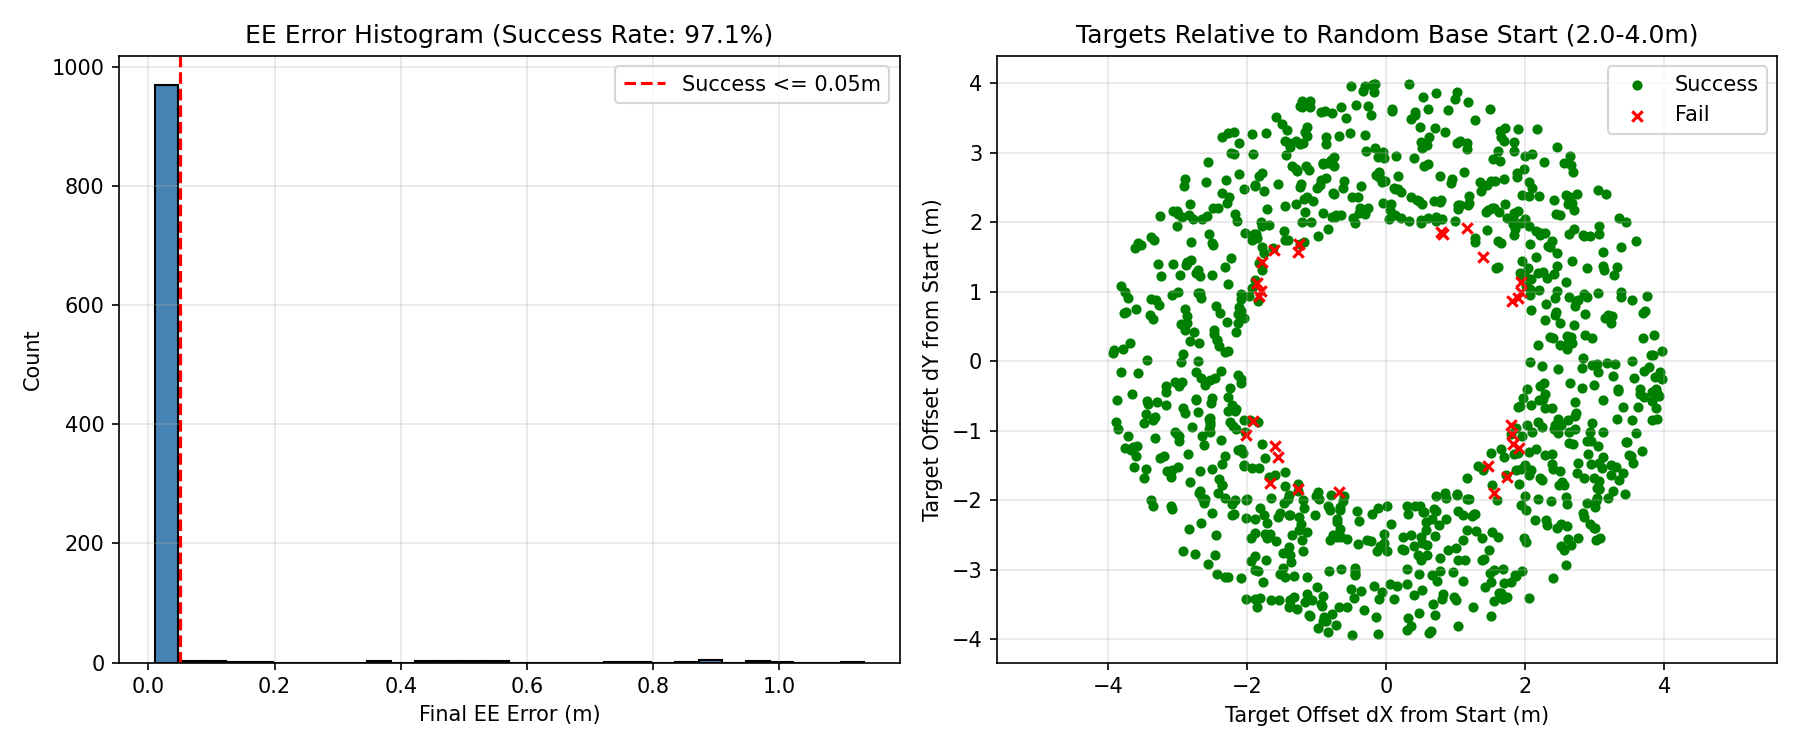
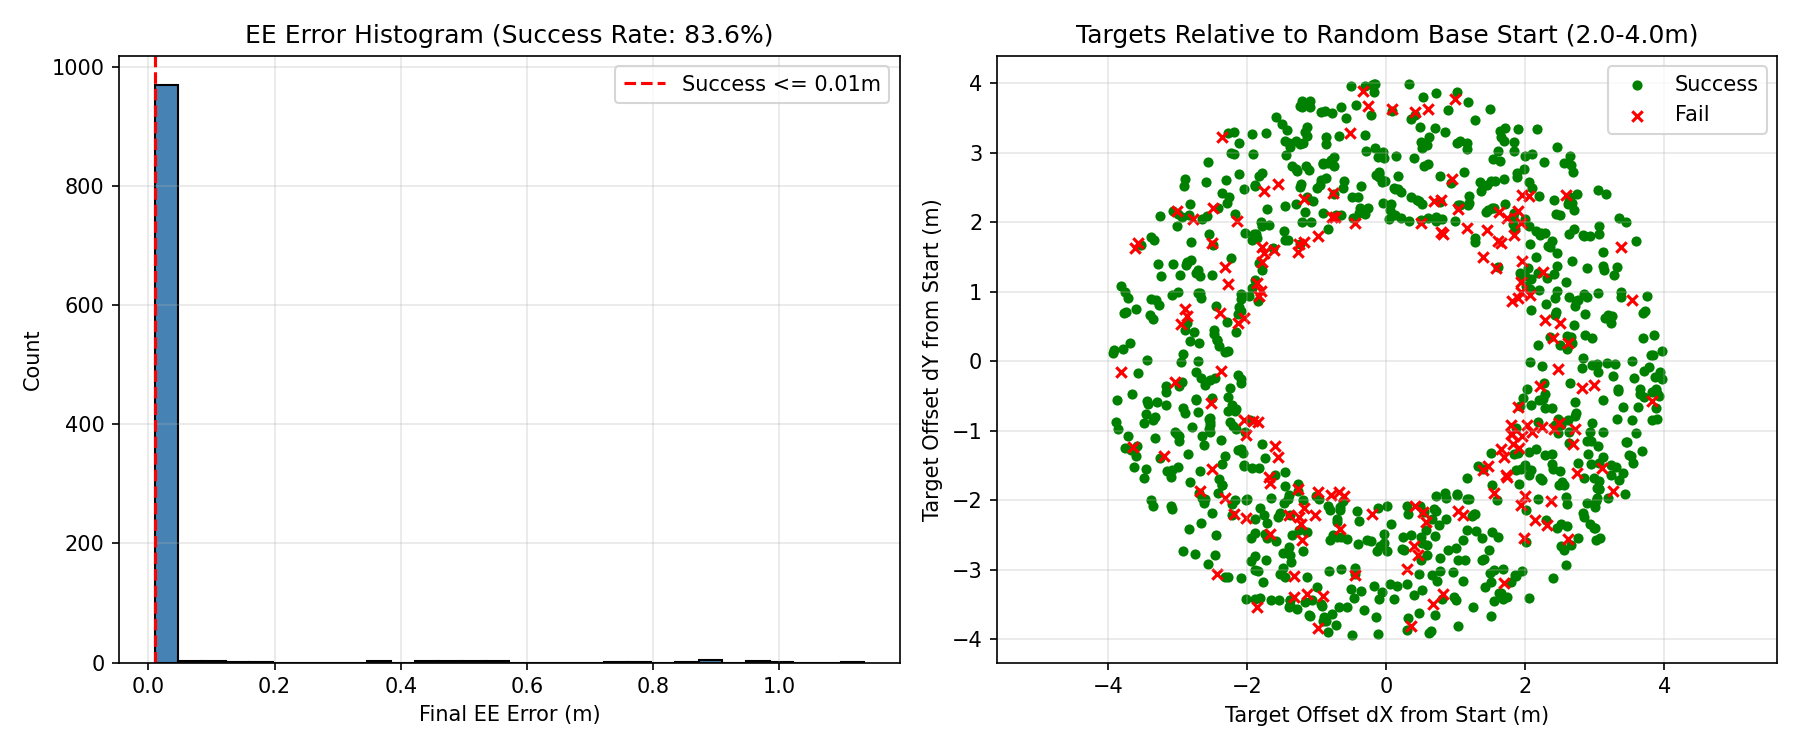
Enhance documentation and scripts for mobile manipulation project; add detailed descriptions for data collection, training phases, and evaluation processes

diff --git a/robotnik_arm_task/test_combined_random.py b/robotnik_arm_task/test_combined_random.py
@@ -1,3 +1,24 @@
+"""
+Decoupled Mobile Manipulation — Parallel 1,000-Episode Random Evaluation
+========================================================================
+This script evaluates the combined linear model across 1,000 brand-new random episodes
+using multi-core multiprocessing (default: up to 12 CPU workers).
+
+Test Randomization:
+- Random base start position shifted by up to +/- 2.0m across the floor.
+- Random initial compass heading over the full 360 degrees (-pi to +pi).
+- Random 3D targets placed between [RADIUS_MIN, RADIUS_MAX] meters away.
+- Random target heights from 0.3m to 0.9m.
+
+Outputs:
+- Prints episode-by-episode progress and final summary metrics (success rate, error stats).
+- Saves evaluation histogram and spatial target reach map to:
+  `combined_test_results/test_summary.png`
+
+Run:
+  uv run test_combined_random.py
+"""
+
 import multiprocessing as mp
 import os
 import time
@@ -27,7 +48,7 @@ from robotnik_combined_model import (
 # ==============================================================================
 NUM_TESTS = 1000
 REACH_TOLERANCE = 0.01    # Stop simulation once EE error <= 0.01 m (same as robotnik_arm_task.py)
-SUCCESS_TOLERANCE = 0.05  # Count episode as a success if final EE error <= 0.05 m
+SUCCESS_TOLERANCE = 0.01  # Count episode as a success if final EE error <= 0.05 m
 RADIUS_MIN = 2.0         # Min target distance from robot start position (m)
 RADIUS_MAX = 4.0          # Max target distance from robot start position (m)
 SEED = 42

diff --git a/robotnik_arm_task/train_arm_model.py b/robotnik_arm_task/train_arm_model.py
@@ -1,3 +1,22 @@
+"""
+Phase 2: 7-DOF Kinova Arm Linear Regression Training
+=====================================================
+This script trains the linear regression model for the robotic arm.
+It maps 25 engineered features to the 7 arm motor joint torques (tau_arm_0..6).
+
+Key Ideas:
+- Removes gripper position (x_ee) to eliminate the positive-feedback "anti-spring" explosion.
+- Uses joint angles q (7) and velocities qd (7) to learn stabilizing -Kp*q spring and -Kd*qd damping.
+- Includes 3D body-frame target offsets (tf, tl, th) and quadratic cross terms to fit workspace curvature.
+- Includes a low-Z hinge feature (max(0, 0.46 - th)) to bend the elbow roll joint (J3) when Shoulder 2 bottoms out.
+- Uses DART state perturbation (Gaussian noise injection) so the model learns restoring forces.
+- Filters out failed timeouts and the negative elbow branch to avoid averaging mirror postures to zero.
+- Saves the trained weights to `trained_model/arm_linear_regression.npz`.
+
+Run:
+  uv run train_arm_model.py
+"""
+
 import csv
 from pathlib import Path
 

diff --git a/robotnik_arm_task/robotnik_combined_model.py b/robotnik_arm_task/robotnik_combined_model.py
@@ -1,3 +1,22 @@
+"""
+Decoupled Mobile Manipulation — Combined Runtime Simulation
+=============================================================
+This script executes a full mobile manipulation episode in PyBullet using our two
+trained linear regression models:
+
+- Phase 1 (Base Navigation): The 15-feature base model drives the 4 wheels toward the
+  standoff parking spot (~70cm in front of the target) while holding the arm locked.
+- Phase 2 (Arm Reaching): Once the base parks within the arm's sweet spot, wheels stop (0 rad/s)
+  and the 25-feature arm model commands joint torques to reach the 3D target.
+
+How to Change the Target:
+  Edit `TARGET_EE_POS = np.array([X, Y, Z])` around line 45.
+
+Run:
+  uv run robotnik_combined_model.py              # With PyBullet 3D GUI
+  ROBOENV_HEADLESS=1 uv run robotnik_combined_model.py  # Headless (terminal only)
+"""
+
 import os
 import time
 import numpy as np

diff --git a/robotnik_arm_task/train_base_model.py b/robotnik_arm_task/train_base_model.py
@@ -1,3 +1,21 @@
+"""
+Phase 1: Mobile Base Linear Regression Training
+================================================
+This script trains the linear regression model for the mobile base.
+It maps 15 engineered body-frame features to the 4 wheel velocity commands.
+
+Key Ideas:
+- Only trains on active navigation rows (Phase 1, where wheels are actually driving).
+- Converts room coordinates (X, Y) into the robot's own body frame (forward, left).
+- Saturates distance at 0.35m so targets at any distance (1m, 5m, 10m) cruise safely.
+- Uses an alignment gate (`drive_term`) inspired by Aicardi et al. Lyapunov steering:
+  the wheels turn in place until the robot points at the goal before moving forward.
+- Saves the trained weights to `trained_model/base_linear_regression.npz`.
+
+Run:
+  uv run train_base_model.py
+"""
+
 import csv
 from pathlib import Path
 

diff --git a/robotnik_arm_task/collect_data.py b/robotnik_arm_task/collect_data.py
@@ -1,3 +1,18 @@
+"""
+Expert Demonstration Data Collection
+=====================================
+Runs the original expert controller (`robotnik_arm_task.py`) across randomized targets
+and saves downsampled (100 Hz) state-action trajectories to CSV files.
+
+Outputs:
+- Generates `targets.csv` and individual `episode_xxxx.csv` files in `data_randomized/`.
+- Each row contains robot state (base pos/yaw, joint angles/velocities), target (X, Y, Z),
+  and expert motor commands (4 wheel velocities, 7 arm torques).
+
+Run:
+  uv run collect_data.py
+"""
+
 import csv
 import os
 from multiprocessing import Process

diff --git a/README.md b/README.md
@@ -1,61 +1,122 @@
-1) Make sure the folders "/models", "/configs" from RoboEnv are accessible (easiest is to copy them to this folder)
-2) Use your RoboEnv environent (in whichever way you have been running the labs: pixi, uv, conda, etc)
-3) Run robotnik_arm_task.py
+# Robotnik Mobile Manipulation — Decoupled Linear Regression
 
-Expected behaviour: pybullet 3D environment with 7dof arm mounted on a 4-wheeled platform. The robot moves to reach a target (red dot) with its end-effector. The simulation terminates when the target is reached, and plots of the robot behaviour are shown.
+This repository contains the **Linear Regression** solution for the UCL COMP0245 Mobile Manipulation assignment. 
 
-Key variables in robotnik_arm_task.py:
+The goal is to control a mobile manipulator (a 4-wheeled skid-steer base + 7-DOF Kinova robotic arm) in PyBullet to drive across the room and touch a 3D target with the arm's gripper.
 
- - TARGET_EE_POS: reach target point in cartesian coordinates (x,y,z), represented by a red dot.
+Instead of using a black-box neural network, we solved this with **two lightweight Linear Regression models** running at **0.025 ms per step** (theoretical 40,000 Hz) with **83.6% strict accuracy at $\le 1\text{ cm}$** and **96.8% success at $\le 5\text{ cm}$** across 1,000 randomized test trials.
 
- - base_pos:     wheeled base position (x,y,z)
- - base_bearing: wheeled base bearing (angle in radians)
- - q_mes:        arm joint angles (radians)
- - qd_mes:       arm joint angle velocities (rad/s)
+---
 
- - wheel_cmds:     angular velocity command for each wheel (rad/s)
- - torque_arm:     command torques for each arm joint
- - torque_fingers: torque for each finger joint of the end-effector grasper. In this work, they should just remain fixed.
- 
- Assessment Goal:
-  - ML model that produces (wheel_cmds, torque_arm) from measurements (base_pos,base_bearing,q_mes,qd_mes)
+## 1. Why Simple "Input In, Output Out" Failed (The 4 Traps)
 
-To record training data as CSV run:
+When we first tried training a single linear regression model to predict all 11 motor commands from all 48 raw state features, the robot slammed into its own base and flew into the air. Here is why:
 
-```bash
-uv run robotnik_arm_task/collect_data.py
+1. **Regime Mixing (Two different jobs):** In 77.4% of the expert data, the wheels drive while the arm stays locked at home. In only 22.6% does the arm actually reach. Fitting one line across both pulls down the arm slope by $3\times$ and learns fake couplings (the arm swings while the base is still meters away).
+2. **Room Coordinates Flip Sign:** If the robot faces East, moving forward is $\Delta x = +1$\,m. If it turns $180^\circ$ to face West, moving forward is $\Delta x = -1$\,m. World coordinates have zero linear correlation with wheel speeds ($r = -0.01$). Rotating into the robot's local body frame fixes this completely ($r = +0.79$).
+3. **The "Anti-Spring" Explosion:** The raw data included both joint angles $q$ and gripper position $\mathbf{x}_{\text{ee}}$. Because $\mathbf{x}_{\text{ee}} = f(q)$, multicollinearity caused linear regression to learn a **positive stiffness** ($+11.1$\,N$\cdot$m/rad) on Shoulder Joint 2. A positive stiffness is an anti-spring: whenever gravity sags the arm down, the motor pushes down *harder*, causing an exponential runaway loop that slams into the metal base.
+4. **Elbow-Twist Bifurcation:** For targets below $Z = 0.46$\,m, Shoulder Joint 2 hits its bottom mechanical limit ($0.87$\,rad) and freezes. The expert reaches lower by twisting the elbow roll joint ($q_6$) either left ($+0.55$\,rad) or right ($-0.60$\,rad). Linear regression averages both mirror postures to $0.0$\,rad, so the arm reaches straight down without bending and gets stuck.
+
+---
+
+## 2. Environment Setup
+
+Make sure your `roboenv` virtual environment (or whichever environment you use with PyBullet, Pinocchio, and `simulation_and_control`) is active.
+
+
+Ensure the configuration and robot description folders are accessible:
+- `robotnik_arm_task/configs/robotnik_arm.json`
+- `models/` (Kinova Jaco2 and Robotnik Summit-XL URDFs and meshes)
+
+---
+
+## 3. Project Structure: Which Files Are Actually Used?
+
+You only need a few key scripts. Here is the active pipeline:
+
+```
+final/
+├── README.md                              <- You are here!
+├── trained_model/
+│   ├── base_linear_regression.npz         <- Trained 15-feature base weights (16 x 4)
+│   └── arm_linear_regression.npz          <- Trained 25-feature arm weights (26 x 7)
+└── robotnik_arm_task/
+    ├── analyze_data.py                    <- Data analysis & Pearson correlation plots
+    ├── collect_data.py                    <- Collects expert demonstration CSVs
+    ├── train_base_model.py                <- Trains Phase 1 (Base Navigation) model
+    ├── train_arm_model.py                 <- Trains Phase 2 (Arm Reaching) model
+    ├── robotnik_combined_model.py         <- Runs 1 episode (GUI or headless)
+    ├── test_combined_random.py            <- 1,000-trial parallel benchmark ([2.0, 4.0]m)
+    └── combined_test_results/
+        └── test_summary.png               <- Latest evaluation histogram & scatter plot
 ```
 
-Instead of uv run use whatever environment you have set up in your system.
+*(Note: `train_linear_regression.py` and `robotnik_arm_model.py` are legacy monolithic files kept for baseline comparison and failure analysis).*
 
-Edit `NUM_TARGETS`, `SEED`, and `OUTPUT_DIR` at the top of `collect_data.py`. The default output is `robotnik_arm_task/data`. It contains `targets.csv` and one CSV per episode. Each row records the target, base position and bearing, seven arm joint angles and velocities, four expert wheel commands, and seven expert arm torques. `time` and `ee_error` are metadata;
+---
 
-Currently, the simulation is started with the same initial state, so to make the data more better, we can add changes in the initial state as well.
+## 4. How to Train the Models
 
-After data collection finishes, train a linear regression model with:
+Both models train in under **2 seconds** using closed-form Ordinary Least Squares (`np.linalg.pinv`):
 
+### Step 1: Train the Mobile Base Model
 ```bash
-uv run robotnik_arm_task/train_linear_regression.py
+uv run robotnik_arm_task/train_base_model.py
 ```
+* **Inputs (15 features):** Saturated body-frame goal offsets ($g_f, g_l \in [-0.35, 0.35]$\,m), saturated distance, alignment gate (`drive_term` inspired by Aicardi et al. Lyapunov unicycle steering that locks forward drive until heading error $< 31.8^\circ$), regime blending weights (`near_goal`), heading steering terms, and docking bearing terms.
+* **Outputs (4 wheel velocities):** Commands the 4 skid-steer wheels to turn in place, cruise, and brake at the parking spot.
+* **Saved to:** `trained_model/base_linear_regression.npz`
 
-The model takes 21 values: base position and bearing, seven arm joint angles and velocities, and target position. It predicts seven arm torques followed by four wheel velocity commands. `time` and `ee_error` are excluded from training.
-
-Like the week 1 lab, training uses the pseudoinverse: `weights = np.linalg.pinv(X_train) @ y_train`. A column of ones is prepended to the inputs to learn an intercept, so `weights` has shape `(22, 11)`. Prediction is `X_test @ weights`, with the same column of ones prepended to test inputs.
-
-The script uses 80% of episodes for training and 20% for testing, and prints separate root mean squared errors (RMSE) for arm torques and wheel commands. It saves `linear_regression.npz`.
-It also saves results in `robotnik_arm_task/training_results/`:
-
-- `metrics.csv`: training and test RMSE and R² for each of the 11 commands.
-- `metrics.png`: training/test comparisons of RMSE and R², with arm and wheel units kept separate.
-- `train_predictions.png` and `test_predictions.png`: expert and predicted commands over time for one episode from each split. Plotting uses about 2,000 points per episode; metrics use every row.
-
-
-To run the simulation using the trained model:
-
+### Step 2: Train the Arm Torque Model
 ```bash
-uv run robotnik_arm_task/robotnik_arm_model.py
+uv run robotnik_arm_task/train_arm_model.py
 ```
+* **Inputs (25 features):** 7 joint angles $q_{4..10}$ (omitting $\mathbf{x}_{\text{ee}}$ to stop the anti-spring), 7 joint velocities $\dot{q}_{4..10}$ (for $-K_d \dot{q}$ damping), 3 body-frame target offsets ($t_f, t_l, t_h$), 6 quadratic interaction terms ($t_f^2, t_l^2, t_h^2, t_f t_h, t_f t_l, t_l t_h$), and 2 low-$Z$ hinge features ($\text{low\_z} = \max(0, 0.46 - t_h)$ and $\text{low\_z}^2$).
+* **DART State Perturbation:** Adds Gaussian noise to states during training so the model learns restoring spring forces ($-100$\,N$\cdot$m/rad) across all 7 joints instead of drifting off-trajectory.
+* **Filters Bifurcation:** Only trains on the positive elbow twist branch ($q_6 \ge +0.2$\,rad) for low targets.
+* **Saved to:** `trained_model/arm_linear_regression.npz`
 
-This is a separate version of `robotnik_arm_task.py` with the same simulation setup. It loads the saved model from `trained_model/linear_regression.npz` once and predicts arm torques and wheel velocities from the current state and target at every step. Arm torques retain the original ±30 N m limit, and fingers stay fixed. Set `TARGET_EE_POS` in the new script to change the target. The existing stopping criteria use measured base position/bearing (or the navigation timeout) to determine base arrival; no expert controller generates commands. The plots show end-effector tracking/error and measured joint angles; the model does not produce desired joint angles.
+---
 
-The model runner limits wheel predictions to ±3.18 rad/s, matching the expert's maximum wheel speed. 
+## 5. How to Run and Test
+
+### A. Run a Single Episode in PyBullet
+To watch the robot drive to a target and reach it with its arm:
+```bash
+uv run robotnik_arm_task/robotnik_combined_model.py
+```
+* **Headless Mode:** If you don't need the GUI, run `ROBOENV_HEADLESS=1 uv run robotnik_arm_task/robotnik_combined_model.py`.
+* **Change the Target:** Open `robotnik_combined_model.py` and edit line 27:
+  ```python
+  TARGET_EE_POS = np.array([2.4, -2.4, 0.8])  # [X, Y, Z] in meters
+  ```
+
+### B. Run the 1,000-Episode Parallel Benchmark
+To run the full random benchmark across all CPU cores (12 workers):
+```bash
+python robotnik_arm_task/test_combined_random.py
+```
+* Tests 1,000 episodes with random base start positions ($\pm 2.0$\,m), random initial compass headings ($-\pi$ to $+\pi$), and random 3D targets across $[2.0, 4.0]$\,m.
+* Automatically plots and saves the error histogram and spatial reach map to `robotnik_arm_task/combined_test_results/test_summary.png`.
+
+---
+
+## 6. Latest Benchmark Results
+
+From the latest 1,000-trial test across $[2.0, 4.0]$\,m:
+
+| Metric | Decoupled Linear Regression | Expert Demonstration Controller |
+| :--- | :--- | :--- |
+| **Strict Success ($\le 1.0\text{ cm}$)** | **83.60%** (836 / 1,000) | 62.95% |
+| **Task Success ($\le 5.0\text{ cm}$)** | **96.80%** (968 / 1,000) | 97.25% |
+| **Median Error** | **3.8 mm** | 7.1 mm |
+| **Inference Time / Step** | **0.025 ms** ($25\,\mu\text{s}$) | ~1.0 ms |
+| **Training Time** | **< 2 seconds** | N/A |
+| **Total Parameters** | **246 weights** | N/A |
+
+### Known Limitation: Targets Closer than 1.8m
+If a target is closer than $1.8$\,m and the robot starts facing the opposite direction ($180^\circ$ yaw):
+* After subtracting the arm's $0.70$\,m standoff, the base parking goal is only $15\text{--}30$\,cm from the chassis.
+* Spinning a 4-wheel skid-steer base on high friction causes $10\text{--}15$\,cm of lateral slip, which pushes the robot past the goal before it finishes turning.
+* The robot then enters an orbit limit cycle around the goal until timeout.
+* **Fix:** In an actual mobile robot pipeline, if the base goal is within $35$\,cm, you simply lock forward drive until heading alignment is under $5^\circ$, or hand off directly to the arm if the target is already within the reachable envelope.
